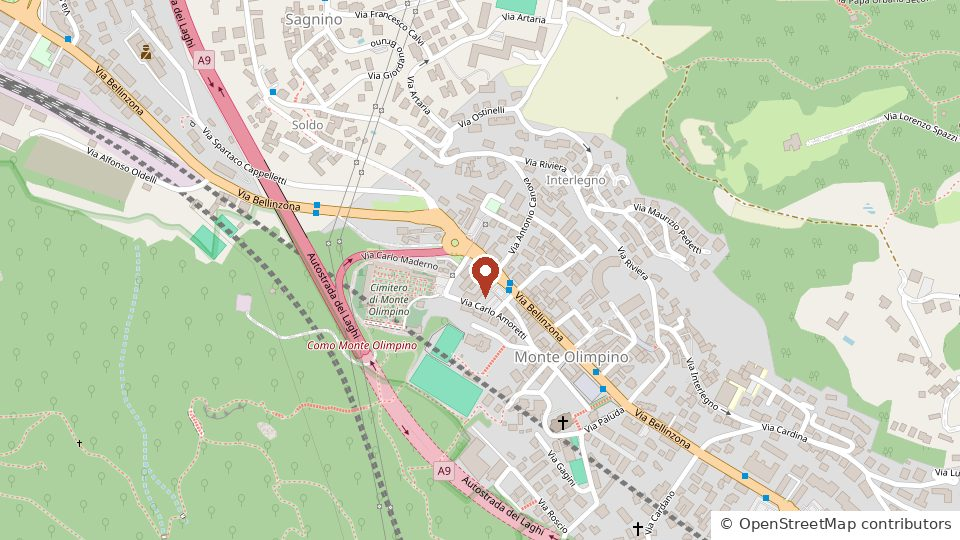
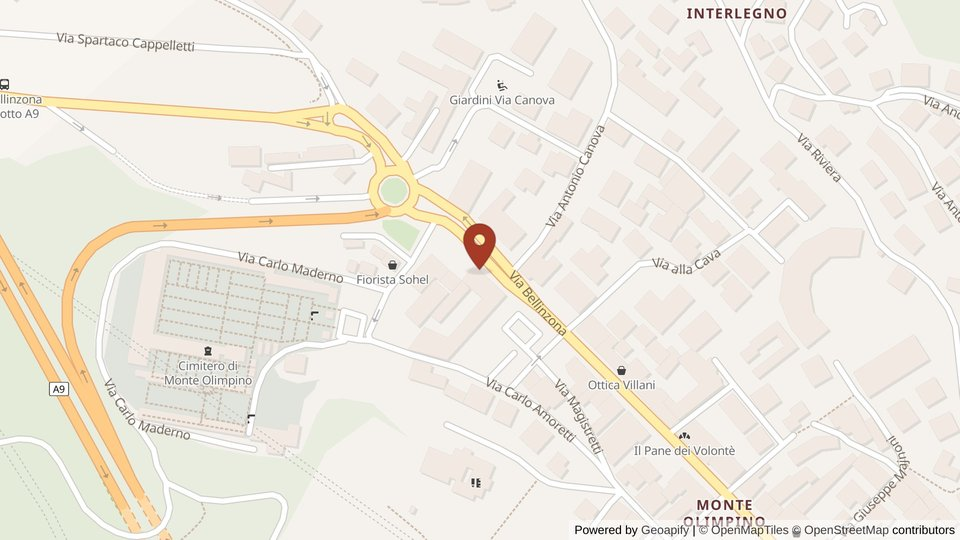
Nuevo mapa moderno (Geoapify) y aviso de privacidad actualizado

diff --git a/privacy.html b/privacy.html
@@ -107,8 +107,10 @@ footer a{display:inline-block;padding:8px 0}
   <h2>Mappa e collegamenti esterni</h2>
   <p>
     La mappa che vedi nella pagina "Dove siamo" è una semplice immagine ospitata sul nostro sito,
-    realizzata con dati di <a href="https://www.openstreetmap.org/copyright" rel="noopener">OpenStreetMap</a>.
-    Guardarla non comporta nessuna comunicazione di dati verso terzi.
+    generata una sola volta con dati di <a href="https://www.openstreetmap.org/copyright" rel="noopener">OpenStreetMap</a>
+    e stile grafico di <a href="https://www.geoapify.com/" rel="noopener">Geoapify</a>.
+    Guardarla non comporta nessuna comunicazione di dati verso terzi: l'immagine è salvata sul nostro server,
+    il tuo browser non contatta Geoapify né OpenStreetMap quando visiti il sito.
   </p>
   <p>
     Toccando quell'immagine, o il link dell'indirizzo, si apre Google Maps: da quel momento vale

diff --git a/sw.js b/sw.js
@@ -1,4 +1,4 @@
-const CACHE = 'numero1-v21';
+const CACHE = 'numero1-v22';
 const FILES = [
   './',
   './index.html',
